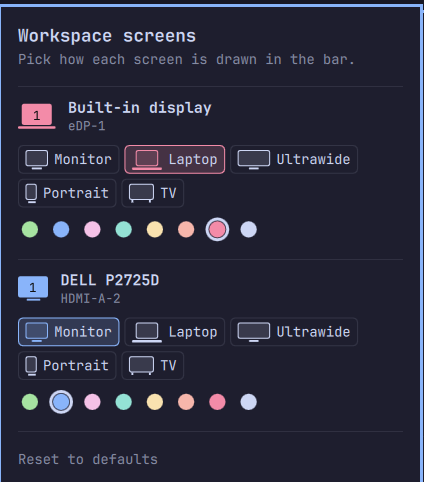
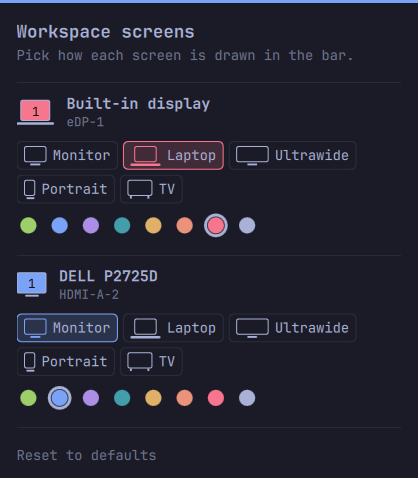
feat: outline screens in the bar's text color, fill only the focused one
Screens are drawn as outlines in the bar's text color, like the rest of
the bar; only the focused workspace is filled with its screen's color.
Screenshots and README updated.

diff --git a/ScreenShape.qml b/ScreenShape.qml
@@ -9,6 +9,8 @@ Item {
   // monitor | laptop | ultrawide | portrait | tv
   property string kind: "monitor"
   property color color: "white"
+  // Outline, foot and deck. Defaults to the screen color.
+  property color borderColor: color
   property bool filled: false
   property string label: ""
   property color labelColor: color
@@ -43,10 +45,10 @@ Item {
     width: shape.screenWidth
     height: shape.screenHeight
     radius: shape.line * 2
-    // A light wash of the screen's color inside; solid when focused.
-    color: shape.filled ? shape.color : Qt.rgba(shape.color.r, shape.color.g, shape.color.b, 0.15)
+    // Filled with the screen's color only when focused; otherwise just the outline.
+    color: shape.filled ? shape.color : "transparent"
     border.width: shape.line
-    border.color: shape.color
+    border.color: shape.borderColor
     opacity: shape.artOpacity
   }
 
@@ -59,7 +61,7 @@ Item {
     width: shape.screenWidth * (shape.kind === "portrait" ? 0.7 : shape.kind === "ultrawide" ? 0.3 : 0.45)
     height: shape.line * 1.5
     radius: shape.line
-    color: shape.color
+    color: shape.borderColor
     opacity: shape.artOpacity
   }
 
@@ -73,7 +75,7 @@ Item {
     width: shape.deckWidth
     height: shape.line * 2
     radius: shape.line
-    color: shape.color
+    color: shape.borderColor
     opacity: shape.artOpacity
   }
 
@@ -88,7 +90,7 @@ Item {
       width: shape.line * 1.5
       height: shape.line * 2
       radius: shape.line / 2
-      color: shape.color
+      color: shape.borderColor
       opacity: shape.artOpacity
     }
   }

diff --git a/HoverCard.qml b/HoverCard.qml
@@ -77,6 +77,7 @@ PopupWindow {
           anchors.verticalCenter: parent.verticalCenter
           kind: card.screenInfo ? card.screenInfo.kind : "monitor"
           color: card.screenInfo ? card.screenInfo.color : Color.accent
+          borderColor: card.textColor
           filled: true
           label: card.pill ? (card.pill.modelData === 10 ? "0" : String(card.pill.modelData)) : ""
           filledLabelColor: card.host && card.screenInfo ? card.host.contrastOn(card.screenInfo.color) : "white"

diff --git a/Workspaces.qml b/Workspaces.qml
@@ -809,6 +809,8 @@ BarWidget {
                 anchors.verticalCenter: parent.verticalCenter
                 kind: group.modelData.kind
                 color: group.modelData.color
+                // Outline in the bar's text color, filled with the screen's color.
+                borderColor: pill.tint
                 filled: pill.focused
                 label: pill.modelData === 10 ? "0" : String(pill.modelData)
                 // Same color as the bar's window title text.

diff --git a/SettingsPanel.qml b/SettingsPanel.qml
@@ -85,6 +85,7 @@ KeyboardPanel {
                 anchors.verticalCenter: parent.verticalCenter
                 kind: screenSection.modelData.kind
                 color: screenSection.modelData.color
+                borderColor: panel.textColor
                 filled: true
                 label: "1"
                 filledLabelColor: panel.host ? panel.host.contrastOn(screenSection.modelData.color) : "white"

diff --git a/README.md b/README.md
@@ -6,12 +6,12 @@ switching, what is on each workspace and which screen it lives on.
 ![wherespace in the bar](preview.png)
 
 - **Number order.** Workspaces stay in order: 1, 2, 3 … 0. Empty ones are hidden.
-- **Drawn as their screen.** Each number sits inside a small drawing of the
+- **Drawn as their screen.** Each number sits inside a small outline of the
   screen the workspace is on: a monitor, a laptop, an ultrawide, a portrait
-  monitor or a TV. The focused workspace is filled; the others' numbers are
-  greyed out.
-- **A color per screen.** Each screen gets its own color from your theme, so
-  you can tell your laptop from your monitor at a glance.
+  monitor or a TV, drawn in the bar's own text color.
+- **A color per screen.** The focused workspace is filled with its screen's
+  color, picked from your theme, so you see at a glance which screen you're
+  on.
 - **What's on it.** Up to two app icons per workspace, then `+N`. The focused
   workspace shows all of its apps. Icons follow the window layout: one from
   each side of the main split in turn (left, right, left, right …), so with a
@@ -31,8 +31,9 @@ switching, what is on each workspace and which screen it lives on.
 wherespace has no colors or fonts of its own; everything comes from your
 Omarchy setup and updates live:
 
-- **Screen colors** are named colors from the active theme's `colors.toml`
-  (`green`, `blue`, `magenta`, …), re-read on every theme switch.
+- **Screen outlines** use the bar's text color; the focused screen's **fill**
+  is a named color from the active theme's `colors.toml` (`green`, `blue`,
+  `magenta`, …), re-read on every theme switch.
 - **Numbers, counts and glyphs** use the bar's text color, like the window
   title. With the transparent bar, that's the color Omarchy picks for your
   wallpaper.
@@ -43,8 +44,9 @@ Omarchy setup and updates live:
 
 ## Screenshots
 
-The bar: each workspace is drawn as its screen (monitors in blue, the laptop
-in red), with its apps next to it. The focused workspace is filled.
+The bar: each workspace is drawn as the outline of its screen (the wide deck
+marks the laptop), with its apps next to it. The focused workspace is filled
+with its screen's color.
 
 ![The bar](docs/screens/bar.png)
 
